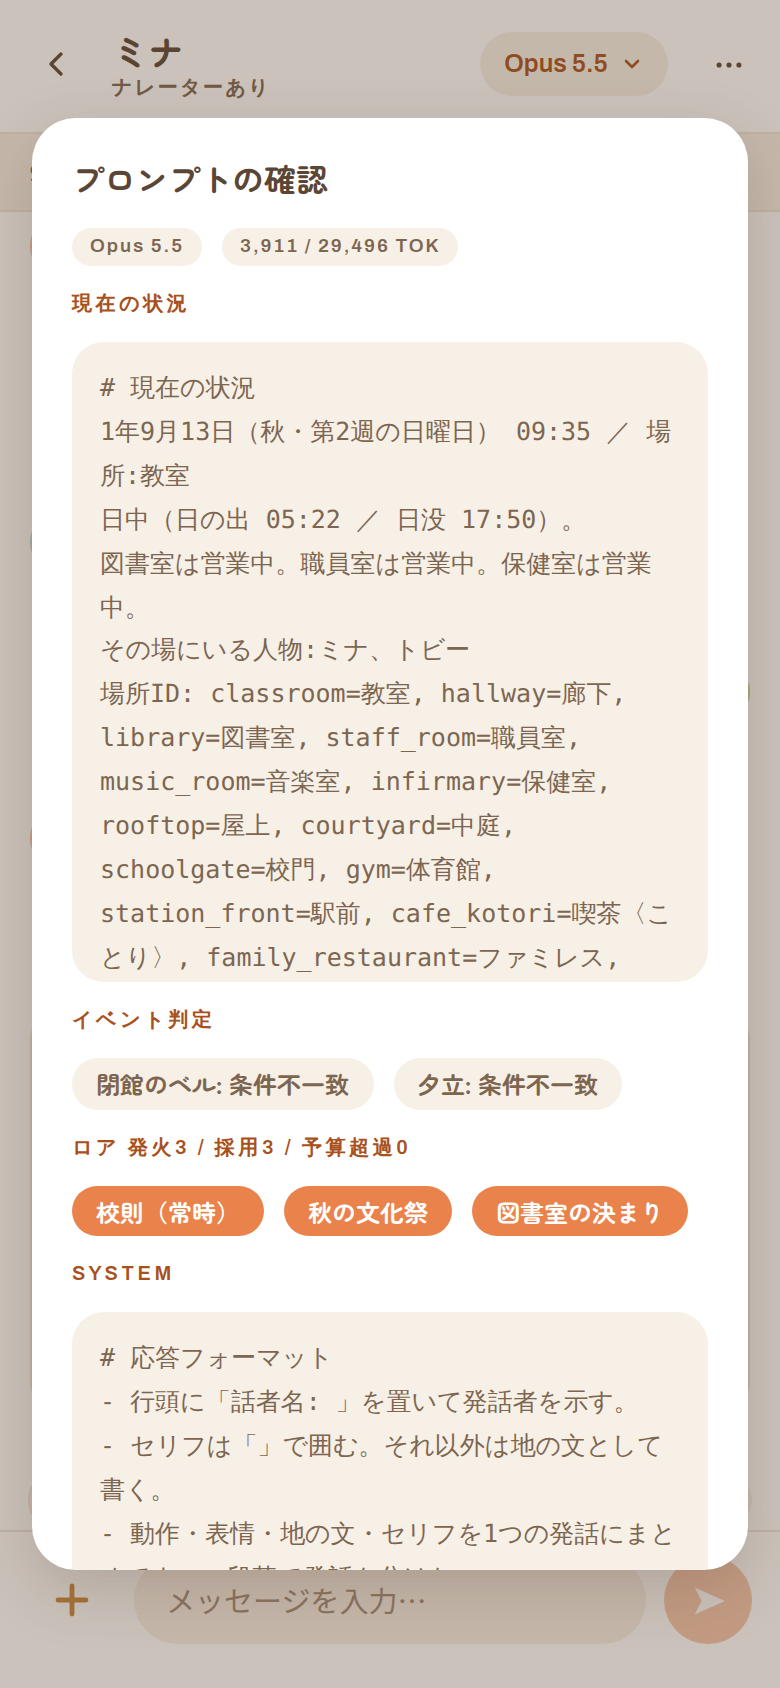
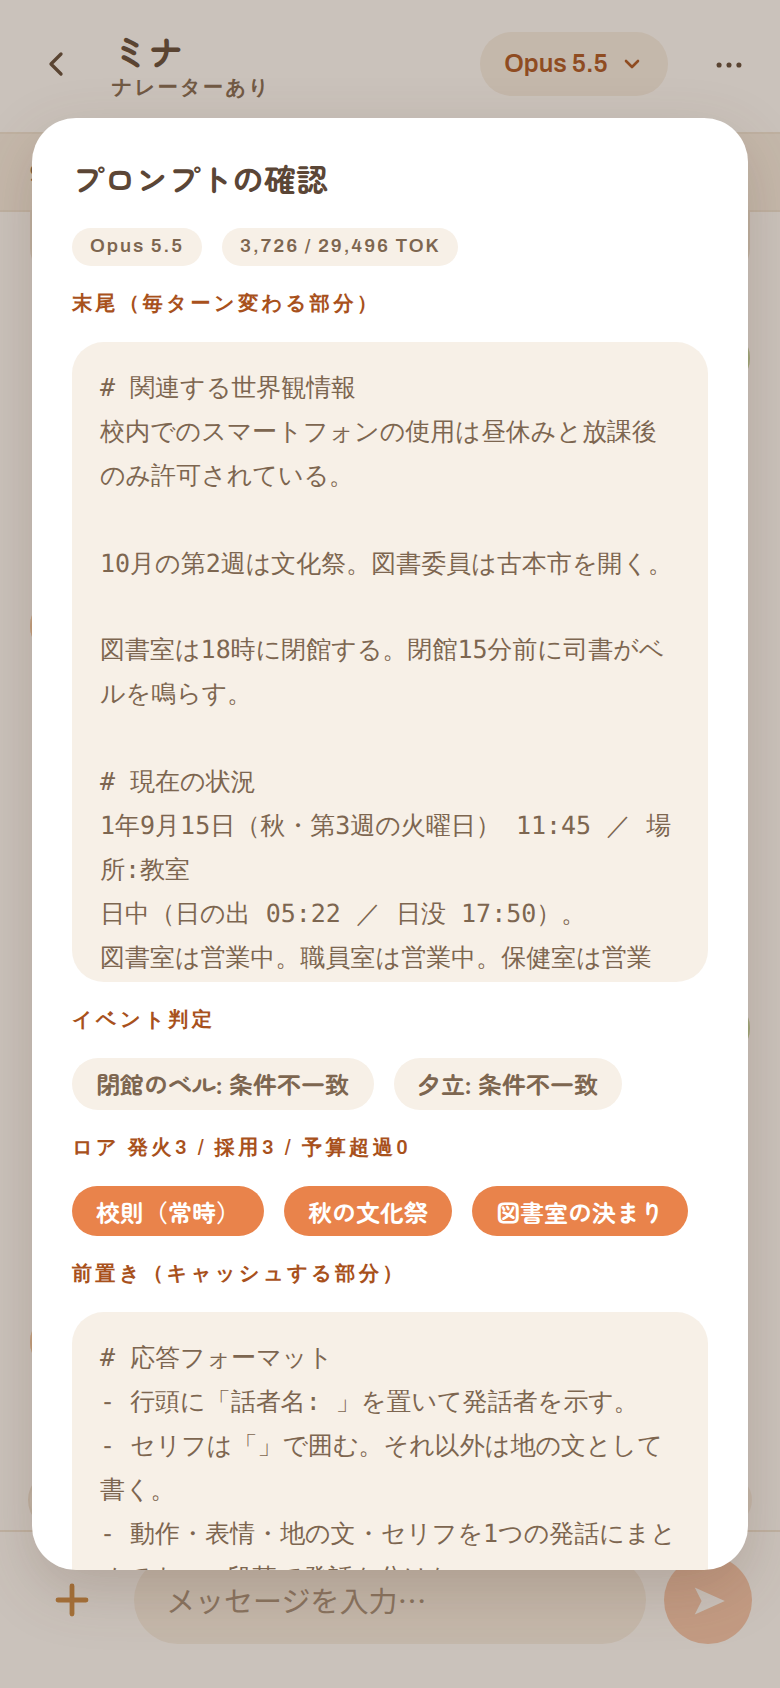
PR 3件の取り込み: 画面確認とドキュメント
- 裏の台本の「台本をのぞく」の中で、指示と台本の枠を白地にした
  （折りたたみと同じ地だと、枠の内側の余白が字下げに見えていた）
- DESIGN_SPEC: ⋯ メニューの「日記を読む」、設定のハブと「裏の台本」ページ、会話の設定の台本欄、
  日記の画面（5.18）、確認ダイアログ3件、プロンプトの確認の見出し、暦の区切り時刻
- GUIDE: 日記の使い方、5-11 裏の台本、設定リファレンスの「裏の台本」、PROMPT_CACHE_TTL
- スクリーンショットを撮り直し・追加（日記・裏の台本・⋯ メニューなど。87枚）

Claude-Session: https://claude.ai/code/session_0166u8D6zMHdXMzASkCND1vk

diff --git a/client/src/theme.css b/client/src/theme.css
@@ -2902,6 +2902,11 @@ textarea.tall {
   margin-top: 4px;
 }
 
+/* 折りたたみの地（--surface-2）と同じ色だと、枠の内側の余白が字下げに見える */
+.director-panel .pre-block {
+  background: var(--surface);
+}
+
 /* ===== 日記（§22） =====
    読み物の画面なので、操作の部品は控えめにして紙面を主役にする。
    罫線は背景のグラデーションで引き、行送りと揃える */

diff --git a/docs/DESIGN_SPEC.md b/docs/DESIGN_SPEC.md
@@ -12,7 +12,7 @@
 | 対象 | `client/`（React + Vite の PWA）。最初はコミット `720cadc` 時点で書き起こし、デザイン見直し（`REDESIGN_PLAN.md` のフェーズ0〜5）を反映して更新した |
 | 向き | 画面・UI中心。「今どう見えているか」「何を押すと何が起きるか」 |
 | 読み手 | デザイナー、または Claude Design / Claude のプロジェクト |
-| 画像 | `docs/screens/*.png`（83枚、合計約11MB）。本文から相対パスで参照 |
+| 画像 | `docs/screens/*.png`（87枚、合計約12MB）。本文から相対パスで参照 |
 
 ### 「事実」と「気づき」を分ける
 
@@ -76,6 +76,7 @@
 │   └ /chats/:id  会話
 │       ├ ステートバーをタップ → /chats/:id/state  ステート編集
 │       ├ ＋（物語を進める）「あらすじ」 → /chats/:id/summary  あらすじ
+│       ├ 右上の ⋯「日記を読む」 → /chats/:id/diary  日記
 │       └ （モーダル類は 5.4 に一覧）
 │
 ├ 世界 /worlds → /worlds/:id  世界の詳細（シナリオ編集モーダル含む）
@@ -94,6 +95,7 @@
     ├ /settings/system-prompt   共通の指示
     ├ /settings/state           ステート
     ├ /settings/events          イベントと進行フラグ
+    ├ /settings/director        裏の台本
     ├ /settings/lorebook        ロアブック
     ├ /settings/summary         あらすじとメモリー → /settings/summary/policy 要約の方針
     ├ /settings/autoplay        オートプレイ
@@ -139,13 +141,14 @@
 |---|---|---|
 | 1 | この会話の設定 | 「この会話の設定」モーダル |
 | 2 | 会話の名前を変える | 「会話の名前」モーダル |
+| 3 | 日記を読む | `/chats/:id/diary`（5.18）。物語を進める操作ではなく読み物なので、＋メニューではなくここに置く |
 | — | 見出し「確認する」 | |
-| 3 | プロンプトを確認 | 「プロンプトの確認」モーダル |
-| 4 | メモリー候補を確認 | 「メモリー候補」モーダル |
+| 4 | プロンプトを確認 | 「プロンプトの確認」モーダル |
+| 5 | メモリー候補を確認 | 「メモリー候補」モーダル |
 | — | 区切り線 | |
-| 5 | 会話を書き出す | JSON をダウンロード |
-| 6 | アーカイブする ／ アーカイブから戻す | 切替。アーカイブしたら一覧へ戻る |
-| 7 | **この会話を削除する**（赤・上に区切り線） | 確認ダイアログのあと削除 |
+| 6 | 会話を書き出す | JSON をダウンロード |
+| 7 | アーカイブする ／ アーカイブから戻す | 切替。アーカイブしたら一覧へ戻る |
+| 8 | **この会話を削除する**（赤・上に区切り線） | 確認ダイアログのあと削除 |
 
 ### 2.5 メッセージの⋯メニュー
 
@@ -525,10 +528,10 @@ Lucide 準拠のインラインSVG（`client/src/icons.tsx`）。絵文字は使
 |---|---|---|
 | 場面を進める | ![](screens/chat-08-advance-modal.png) | 説明文／「クイック」`+30分` `+1時間` `+3時間` `翌朝 8:00` `翌日の同じ時刻`／「日時を指定」年・月・日・時・分の数値5つ／「場所（変えるときだけ選ぶ）」セレクト（既定 `（変えない）`）／主ボタン「この日時へ進める」。完了はトースト「M月D日 HH:mm へ進めました ／ 天気は「○○」 ／ イベント: ○○」 |
 | 一時指示 | ![](screens/chat-09-ooc-modal.png) | 複数行入力（プレースホルダ3行の例）／「有効範囲」チップ `今回だけ`・`手動で消すまで`（下に動作の説明が切り替わる）。操作: 「消す」（設定済みのときだけ）・「保存」 |
-| プロンプトの確認 | ![](screens/chat-11-prompt-preview.png) | モデル・トークン数 `N / M TOK`・削られた分のタグ／「現在の状況」「進行状況」「イベント判定」「ロア 発火N / 採用N / 予算超過N」「system」の各ブロック。操作: 「閉じる」 |
+| プロンプトの確認 | ![](screens/chat-11-prompt-preview.png) | モデル・トークン数 `N / M TOK`・削られた分のタグ／「末尾（毎ターン変わる部分）」「進行状況」「イベント判定」「ロア 発火N / 採用N / 予算超過N」「前置き（キャッシュする部分）」の各ブロック。操作: 「閉じる」 |
 | メモリー候補 | ![](screens/chat-12-memory-candidates.png) | 対象範囲の説明／候補のカード（キャラ名・対象・日付のタグ → 本文 → 理由）。操作: 「N件を保存」（候補があるときのみ） |
 | 会話の名前 | ![](screens/chat-13-rename.png) | 名前欄（プレースホルダは先頭キャラ名）・補足「空にすると、参加しているキャラクターの名前で表示されます」。操作: 「保存」 |
-| この会話の設定 | ![](screens/chat-14-chat-settings.png) | 「参加キャラ（タップで加除）」チップ／「条件付きイベント」「進行フラグ」の3値トグル＋「いまは ON（シナリオの設定）」の解決結果／説明文。**保存ボタンは無く、押した時点で反映** |
+| この会話の設定 | ![](screens/chat-14-chat-settings.png) ![](screens/chat-23-director-panel.png) | 「参加キャラ（タップで加除）」チップ／「条件付きイベント」「進行フラグ」「裏の台本」の3値トグル＋「いまは ON（シナリオの設定）」の解決結果／説明文。**保存ボタンは無く、押した時点で反映**。「裏の台本」の下に状態の1行（`前回の更新から応答N回（6回ごとに更新）`・まだ無ければ `まだ台本はありません。応答2回で最初の台本を作ります`）・「今すぐ更新」「白紙に戻す」（台本があるときだけ。確認ダイアログ）・OFFで台本があるときは「OFFの間は、台本があっても本文には渡しません」・**中身は折りたたみ「台本をのぞく（ネタバレ注意）」に隠す**（開くと「本文に渡している指示」と「台本（本文には渡さない）」と書いたモデル） |
 | メッセージを編集 | ![](screens/chat-15-edit-modal.png) | 「本文のみ修正します。ステートは変わりません」／大きなテキストエリア。操作: 「保存」 |
 | この場面を描く | ![](screens/chat-16-snapshot-modal.png) | 「プロンプト（送る前に直せます）」（中身に合わせて伸びる、画面高の45%まで）／「比率」「品質」セレクト（品質は `低（安い・速い）`・`中`・`高（高い・遅い）`）／トグル「参照画像を使う」「自分（ペルソナ）も描く」／「モデル: … ／ 生成すると課金されます」。操作: 「生成する」（生成中は「生成中…」） |
 | スナップショット（原寸） | ![](screens/chat-17-snapshot-full.png) | 原寸の画像だけ。操作は「キャンセル」のみ |
@@ -604,7 +607,7 @@ Lucide 準拠のインラインSVG（`client/src/icons.tsx`）。絵文字は使
 - `Scenarios`: シナリオの行（右に 再生＝「この設定で開始」と ゴミ箱＝「削除」）。タップで**シナリオ編集モーダル**。「シナリオを追加」行（即座に「新しいシナリオ」を作って編集を開く）。
 - `World`: 「名前」「説明」「世界のシステムプロンプト（文体・世界観・許可される表現）」「ナレーターの指示」「進行フラグの定義（JSON配列。…）」（等幅・大）。
 - 固定バー: 「削除」（赤）と 主ボタン「保存」。**この保存は `World` の欄だけ**を保存する（キャラ・シナリオはそれぞれ別に保存される）。削除は確認ダイアログの本文に、消える件数（キャラ／シナリオ／チャット／ロア／場所／イベント／スナップショット／参照画像）が並ぶ。
-- **シナリオ編集モーダル**: タイトル／状況設定／参加キャラ（チップ）／既定ペルソナ／冒頭の応答文（話者ラベル付き）／「初期ステート」開始時刻（年月日時分）・暦の説明「この世界の暦: 1年 = N か月 / 1か月 = N日」・場所・天候・開始時の在席キャラ／トグル「ナレーター」／3値「条件付きイベント」「進行フラグ」。操作: 「保存」。
+- **シナリオ編集モーダル**: タイトル／状況設定／参加キャラ（チップ）／既定ペルソナ／冒頭の応答文（話者ラベル付き）／「初期ステート」開始時刻（年月日時分）・暦の説明「この世界の暦: 1年 = N か月 / 1か月 = N日」・場所・天候・開始時の在席キャラ／トグル「ナレーター」／3値「条件付きイベント」「進行フラグ」「裏の台本」。操作: 「保存」。
 
 ### 5.9 キャラクター編集　`/characters/:id`
 
@@ -656,7 +659,7 @@ Lucide 準拠のインラインSVG（`client/src/icons.tsx`）。絵文字は使
 
 - トップバー「暦・天候」。固定バー: 主ボタン「保存」。
 - 上に（あれば）`warn-list`「**確認したい点**」＋指摘。保存は通る。トースト「暦を保存しました（確認したい点がN件）」。
-- セクション: `Calendar`（「1年の月数」「1ヶ月の日数」ステッパー・「曜日名（区切り）」）／`Last Train`（トグル「終電の行を出す」・呼び方・時刻・通知・後の文）／`Seasons`・`Sunrise / Sunset`・`Weather`（JSON を等幅のテキストエリアで直接編集）／「天候を引き直す時刻」ステッパー。
+- セクション: `Calendar`（「1年の月数」「1ヶ月の日数」ステッパー・「曜日名（区切り）」）／`Last Train`（トグル「終電の行を出す」・呼び方・時刻・通知・後の文）／`Seasons`・`Sunrise / Sunset`・`Weather`（JSON を等幅のテキストエリアで直接編集）／「1日の区切り時刻（天候の引き直し・日記）」ステッパー（0時からの分。既定240＝朝4時。天候と日記の1日はこの時刻で切り替わる）。
 - JSON が壊れていると保存時にトースト「保存できません: …」（赤）。
 
 ### 5.15 イベント　`/worlds/:id/events`
@@ -689,6 +692,7 @@ Lucide 準拠のインラインSVG（`client/src/icons.tsx`）。絵文字は使
 | | 共通の指示 | 1行目（省略） |
 | 物語のしくみ | ステート | `OFF` か `ON ・ 応答の末尾から読み取る`／`ON ・ 別の呼び出しで読み取る` |
 | | イベントと進行フラグ | `イベント ON ・ 進行フラグ OFF` |
+| | 裏の台本 | `OFF（シナリオ・会話ごとにONにできます）` か `ON ・ 応答6回ごとに更新` |
 | | ロアブック | `予算 12,000字 ・ 直近8件から探す` |
 | 自動で動くもの | あらすじとメモリー | `要約 約16件ごと ・ 自動抽出 OFF`（自動要約OFFなら `要約 OFF`） |
 | | オートプレイ | `最大3ターン ・ 区切りで止める`（判断OFFなら後半を省く） |
@@ -704,6 +708,7 @@ Lucide 準拠のインラインSVG（`client/src/icons.tsx`）。絵文字は使
 | 共通の指示 | ![](screens/settings-06-system-prompt.png) | 説明「すべての世界・会話のシステムプロンプトに入ります。…」／画面いっぱいのテキストエリア／「✓ 保存済み」か「入力欄から離れると保存されます」／「既定に戻す」（確認ダイアログ） |
 | ステート | ![](screens/settings-07-state.png) | トグル「ステートを使う」。ONのときだけ「変化の読み取り方」の択一カード2枚（「応答の末尾から」＋「既定」タグ／「別の呼び出しで」）。OFFのときは注記「OFFのあいだは、…『場面を進める』は使えます。」 |
 | イベントと進行フラグ | ![](screens/settings-08-events.png) | 先頭に「全体の既定（このページ） › シナリオ › 会話」の3つの箱と「右ほど優先されます。…」／「条件付きイベント」: トグル・「1ターンの上限 件」（全体OFFでも出す）／「進行フラグ」: トグル・「使う世界だけ、シナリオ側でONにするのがおすすめです。」 |
+| 裏の台本 | ![](screens/settings-16-director.png) | 先頭に「全体の既定（このページ） › シナリオ › 会話」の3つの箱と「右ほど優先されます。試すときは、会話の設定でその会話だけONにするのがおすすめです。」／「使うかどうか」: トグル「裏の台本を使う」・折りたたみ「くわしく」（台本そのものは本文のモデルに渡さないこと、OFFなら呼び出しも注入もしないこと）／「更新のしかた」: 「台本を書くモデル」（空は「裏方の処理と同じ」）・「更新の間隔 回」（1〜30）・「台本の長さ 字」（500〜5000、250刻み）。**既定はOFF** |
 | ロアブック | ![](screens/settings-09-lorebook.png) | 「注入の予算 字」・「キーワードを探す範囲 件」（説明に `直近8件（4ターン）の本文から探します`）・「探す回数」（切り替え 1回〜4回、選択に応じた説明）／折りたたみ「くわしく」 |
 | あらすじとメモリー | ![](screens/settings-10-summary.png) | 「あらすじ」: トグル「自動で要約する」・「要約のきっかけ 件」・（自動要約ONのときだけ）計算結果の囲み `直近の16件は生のまま残すので、実際は約16件（8ターン）ごとに要約します`・「あらすじの長さの目安 字」・「要約の方針 ›」／「メモリー」: トグル「会話から候補を自動で拾う」／末尾の囲み「要約と抽出は『裏方の処理』のモデル（Sonnet 5.5）が行います。 変更」。**自動要約がOFFでも、きっかけ・目安・方針は隠さない** |
 | 要約の方針 | ![](screens/settings-11-summary-policy.png) | 共通の指示と同じ形。説明「何を残し、何を落とし、どう書くか。…」／折りたたみ「書き方のコツ」 |
@@ -714,6 +719,19 @@ Lucide 準拠のインラインSVG（`client/src/icons.tsx`）。絵文字は使
 - **保存**: ボタンは無く、**変えた時点で保存**する。「共通の指示」「要約の方針」（長文）だけは、入力欄から離れたとき・画面を離れたとき・アプリを切り替えたとき（`visibilitychange`）に保存する。
 
 ---
+
+
+### 5.18 日記　`/chats/:id/diary`
+
+![日記](screens/diary-01-written.png) ![PC幅](screens/desktop-05-diary.png)
+
+- 入口は会話の右上 ⋯「日記を読む」。トップバー「日記」（下に選んでいるキャラ名）・戻るは会話へ。タブは出さない。
+- 上から: 人の切り替え（丸いピル。アバター＋名前、選択中は `--accent` 地・白字。横にスクロール）／「新しく書くときの長さ」切り替え `短め`・`ふつう`・`長め`／日のカード（新しい日が上）。
+- 日のカード（地 `--surface-2`・角丸）: 見出し `1年9月15日(火)` と小さく `N件の場面`。**そのキャラが居合わせた日だけ**並ぶ。
+  - 未作成: 主ボタン「この日の日記を書いてもらう」（書いている間は「（名前）が書いています…」、他の日のボタンも押せない）。
+  - 作成済み: 罫線入りの紙面（行送り30px、白地）に本文／書いた日時（`formatDateTime`）／鉛筆（編集モーダル）・再読込（書き直し。確認ダイアログ）・ごみ箱（削除。確認ダイアログ）。
+- 編集モーダル: 題 `（日付） の日記`、大きなテキストエリア、操作「保存」。
+- 居合わせた日が無いときは「まだ日記を書ける日がありません。…」。**日記は読み物で、本文のプロンプトには載らない**（SPEC §22）。
 
 ## 6. 横断仕様
 
@@ -727,7 +745,7 @@ Lucide 準拠のインラインSVG（`client/src/icons.tsx`）。絵文字は使
 
 画面を離れるときの「保存していない変更があります」確認は、ペルソナの編集だけにある。
 
-### 6.2 確認ダイアログ（17箇所）と `prompt()`
+### 6.2 確認ダイアログ（20箇所）と `prompt()`
 
 取り消せない操作の確認は、すべてアプリの見た目の確認ダイアログ（4.4）。実行ボタンに `danger` と書いたものは赤地。
 
@@ -750,6 +768,9 @@ Lucide 準拠のインラインSVG（`client/src/icons.tsx`）。絵文字は使
 | ペルソナ | `「（名前）」を削除しますか？` | — | 削除する（danger） |
 | ペルソナ（未保存で戻る） | 保存していない変更があります | 破棄して戻りますか？ | 破棄する（danger） ／ 編集を続ける |
 | 設定（共通の指示・要約の方針） | （共通の指示／要約の方針）を既定に戻しますか？ | いまの内容は消えます。 | 既定に戻す |
+| 会話の設定（裏の台本） | 裏の台本を白紙に戻しますか？ | 次の更新で、これまでの本文から一から書き直します。 | 白紙に戻す（danger） |
+| 日記（書き直し） | 日記を書き直してもらいますか？ | 今の日記は上書きされます。 | 書き直す |
+| 日記（削除） | この日記を削除しますか？ | 元に戻せません。 | 削除する（danger） |
 
 `prompt`（ブラウザ標準の入力ダイアログ）は2箇所残っている: 「新しい世界の名前は？」（世界）／「キャラクター名は？」（世界の詳細）。
 
